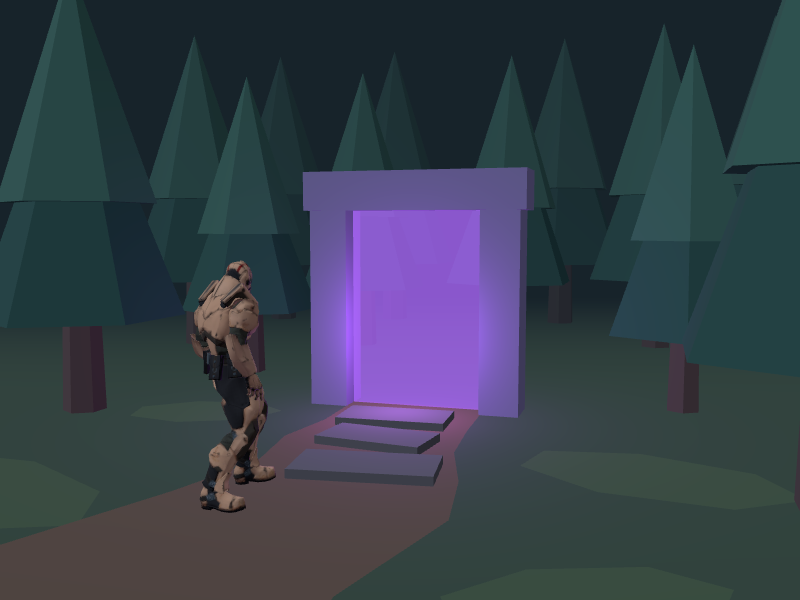
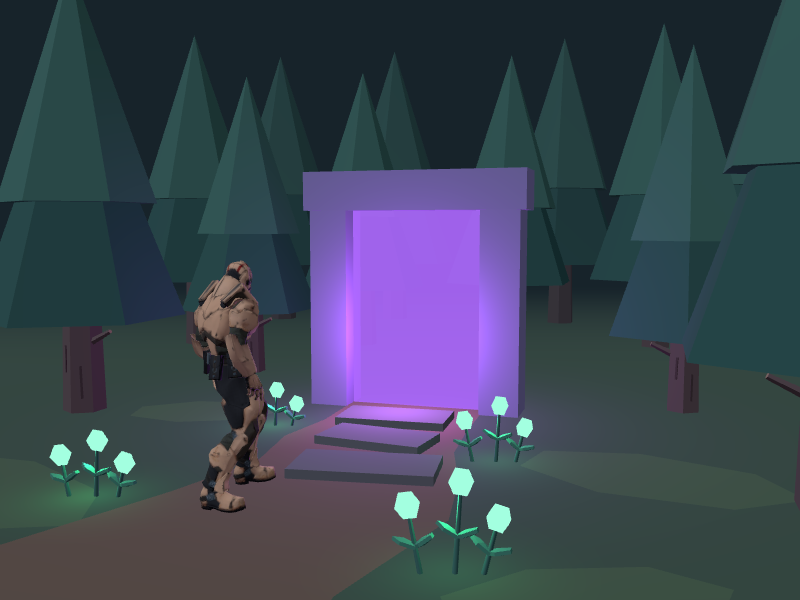
Add glowing plants and pine details to The Forest Gate

diff --git a/sketches/the-forest-gate/scene.js b/sketches/the-forest-gate/scene.js
@@ -1,10 +1,12 @@
 import * as THREE from 'three';
 import { OrbitControls } from 'three/addons/controls/OrbitControls.js';
 import { GLTFLoader } from 'three/addons/loaders/GLTFLoader.js';
+import { createGlowingPlants } from './plants.js';
+import { createPineDetails } from './pine-details.js';
 
 const scene = new THREE.Scene();
 scene.background = new THREE.Color('#17232a');
-scene.fog = new THREE.Fog('#17232a', 9, 24);
+scene.fog = new THREE.Fog('#17232a', 11, 28);
 
 const camera = new THREE.PerspectiveCamera(40, 1, 0.1, 100);
 camera.position.set(2.5, 2.1, 8.4);
@@ -80,10 +82,14 @@ function pine(x, z, height) {
 }
 
 // Leave a clearing in the middle so the gate stays visible.
-pine(-3.4, 1.0, 4.5);
-pine(3.7, 2.1, 4.8);
-pine(-2.8, -1.7, 3.8);
-pine(2.8, -0.9, 3.7);
+const frontPines = [
+  [-3.4, 1.0, 4.5],
+  [3.7, 2.1, 4.8],
+  [-2.8, -1.7, 3.8],
+  [2.8, -0.9, 3.7]
+];
+for (const tree of frontPines) pine(...tree);
+scene.add(createPineDetails(THREE, frontPines));
 pine(-4.9, -3.9, 4.9);
 pine(4.9, -3.6, 4.9);
 pine(-2.2, -4.6, 4.3);
@@ -104,11 +110,11 @@ const portalMaterial = new THREE.MeshBasicMaterial({
   color: '#ae68ff',
   side: THREE.DoubleSide,
   transparent: true,
-  opacity: 0.76
+  opacity: 0.90
 });
 addMesh(new THREE.PlaneGeometry(1.48, 2.15), portalMaterial, 0, 1.195, -0.22);
 
-const portalLight = new THREE.PointLight('#bf68ff', 9, 5);
+const portalLight = new THREE.PointLight('#bf68ff', 17, 5);
 portalLight.position.set(0, 0.95, 0.4);
 scene.add(portalLight);
 
@@ -118,8 +124,10 @@ box(1.10, 0.10, 0.58, pathStone, 0, 0.15, 0.55).rotation.y = 0.05;
 box(1.02, 0.10, 0.54, pathStone, 0.09, 0.15, 1.38).rotation.y = -0.12;
 box(1.18, 0.10, 0.60, pathStone, 0.29, 0.15, 2.25).rotation.y = 0.13;
 
-scene.add(new THREE.HemisphereLight('#d9dfff', '#8a80a4', 1.65));
-const moonlight = new THREE.DirectionalLight('#d1dfff', 2.2);
+scene.add(createGlowingPlants(THREE));
+
+scene.add(new THREE.HemisphereLight('#d9dfff', '#8a80a4', 1.85));
+const moonlight = new THREE.DirectionalLight('#d1dfff', 2.3);
 moonlight.position.set(-3, 6, 4);
 scene.add(moonlight);
 
@@ -159,7 +167,7 @@ renderer.setAnimationLoop((time) => {
   if (soldierMixer && !reducedMotion.matches) soldierMixer.update(delta);
 
   const pulse = reducedMotion.matches ? 0 : Math.sin(time * 0.002);
-  portalMaterial.opacity = 0.76 + pulse * 0.1;
-  portalLight.intensity = 9 + pulse * 2;
+  portalMaterial.opacity = 0.90 + pulse * 0.06;
+  portalLight.intensity = 17 + pulse * 3;
   renderer.render(scene, camera);
 });

diff --git a/sketches/the-forest-gate/plants.js b/sketches/the-forest-gate/plants.js
@@ -1,0 +1,62 @@
+// Small mint-colored lantern plants that can be placed as one group.
+export function createGlowingPlants(THREE) {
+  const plants = new THREE.Group();
+  plants.name = 'Glowing Plants';
+
+  const stemGeometry = new THREE.CylinderGeometry(0.012, 0.018, 1, 5);
+  const leafGeometry = new THREE.SphereGeometry(1, 5, 3);
+  const budGeometry = new THREE.IcosahedronGeometry(0.078, 0);
+  const stemMaterial = new THREE.MeshStandardMaterial({ color: '#315c4d' });
+  const leafMaterial = new THREE.MeshStandardMaterial({ color: '#39745a', flatShading: true });
+  const budMaterial = new THREE.MeshBasicMaterial({ color: '#a3ffe0', fog: false });
+
+  function sprout(x, z, height, lean) {
+    const plant = new THREE.Group();
+    plant.name = 'Lantern Sprout';
+    plant.position.set(x, 0, z);
+    plant.rotation.z = lean;
+
+    const stem = new THREE.Mesh(stemGeometry, stemMaterial);
+    stem.name = 'Stem';
+    stem.scale.y = height;
+    stem.position.y = height / 2;
+    plant.add(stem);
+
+    for (const side of [-1, 1]) {
+      const leaf = new THREE.Mesh(leafGeometry, leafMaterial);
+      leaf.name = 'Leaf';
+      leaf.position.set(side * 0.055, height * 0.46, 0);
+      leaf.scale.set(0.095, 0.023, 0.041);
+      leaf.rotation.z = side * 0.45;
+      plant.add(leaf);
+    }
+
+    const bud = new THREE.Mesh(budGeometry, budMaterial);
+    bud.name = 'Glowing Bud';
+    bud.position.y = height;
+    bud.scale.y = 1.18;
+    plant.add(bud);
+    return plant;
+  }
+
+  function cluster(name, x, z, height) {
+    const group = new THREE.Group();
+    group.name = name;
+    group.position.set(x, 0.12, z);
+    group.add(sprout(-0.17, 0.06, height * 0.74, 0.20));
+    group.add(sprout(0.02, 0, height, -0.06));
+    group.add(sprout(0.18, -0.04, height * 0.64, -0.24));
+
+    const glow = new THREE.PointLight('#5fffc4', 0.44, 1.1);
+    glow.name = 'Mint Glow';
+    glow.position.set(0, height * 0.8, 0);
+    group.add(glow);
+    plants.add(group);
+  }
+
+  cluster('Lantern Plants 01', -1.12, 1.05, 0.36);
+  cluster('Lantern Plants 02', 1.22, 1.65, 0.48);
+  cluster('Lantern Plants 03', -1.42, 3.42, 0.42);
+  cluster('Lantern Plants 04', 1.42, 3.95, 0.54);
+  return plants;
+}

diff --git a/sketches/the-forest-gate/pine-details.js b/sketches/the-forest-gate/pine-details.js
@@ -1,0 +1,42 @@
+export function createPineDetails(THREE, trees) {
+  const details = new THREE.Group();
+  details.name = 'Pine Details';
+
+  const bark = new THREE.MeshStandardMaterial({ color: '#51413d', flatShading: true });
+  const cutWood = new THREE.MeshStandardMaterial({ color: '#846a55' });
+  const groove = new THREE.MeshStandardMaterial({ color: '#3b2c2a' });
+  const up = new THREE.Vector3(0, 1, 0);
+
+  trees.forEach(([x, z, height], index) => {
+    const group = new THREE.Group();
+    group.name = 'Pine ' + String(index + 1).padStart(2, '0') + ' Detail';
+    group.position.set(x, 0.12, z);
+
+    const side = index % 2 === 0 ? 1 : -1;
+    const start = new THREE.Vector3(0, height * 0.15, 0.03);
+    const end = new THREE.Vector3(side * height * 0.093, height * 0.195, 0.085);
+    const direction = end.clone().sub(start);
+    const branch = new THREE.Mesh(
+      new THREE.CylinderGeometry(0.024, 0.048, direction.length(), 5),
+      [bark, cutWood, bark]
+    );
+    branch.name = 'Short Branch';
+    branch.position.copy(start).lerp(end, 0.5);
+    branch.quaternion.setFromUnitVectors(up, direction.normalize());
+    group.add(branch);
+
+    // Place two slim marks just above the front facets of the tapered trunk.
+    for (const [angle, y, length] of [[Math.PI / 6, 0.073, 0.078], [-Math.PI / 6, 0.127, 0.064]]) {
+      const radius = height * (0.05 - 0.015 * y / 0.56) * Math.cos(Math.PI / 6);
+      const mark = new THREE.Mesh(new THREE.BoxGeometry(0.024, height * length, 0.018), groove);
+      mark.name = 'Bark Groove';
+      mark.position.set(Math.sin(angle) * radius, height * y, Math.cos(angle) * radius);
+      mark.rotation.set(-0.023, angle, side * 0.025, 'YXZ');
+      group.add(mark);
+    }
+
+    details.add(group);
+  });
+
+  return details;
+}
